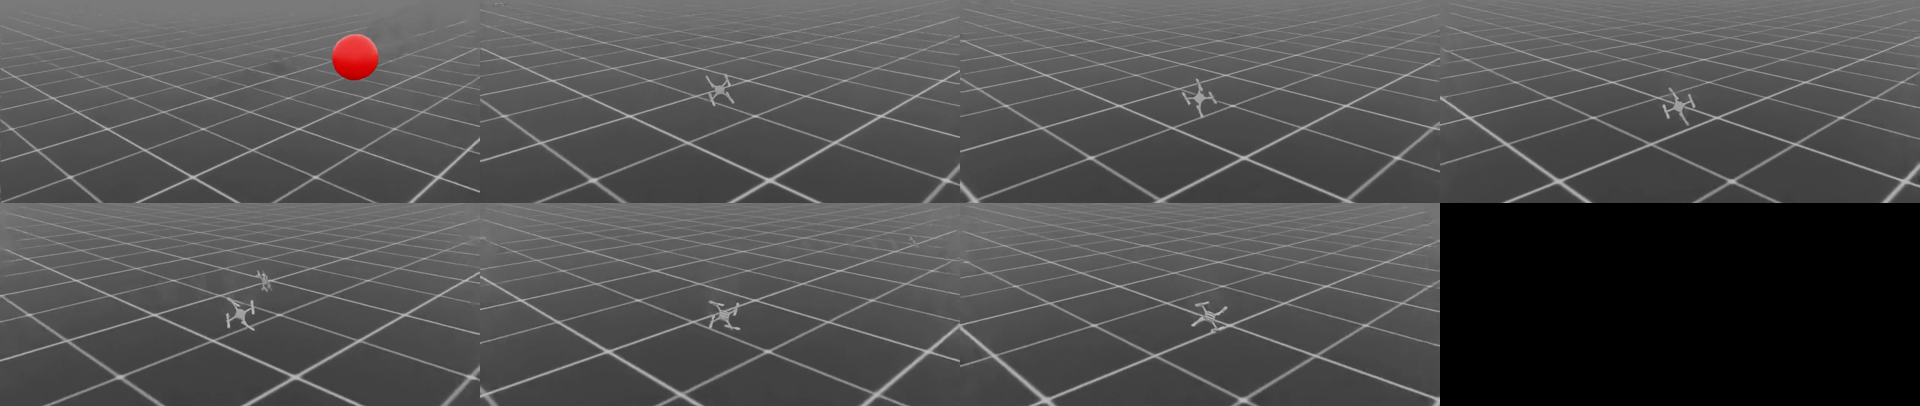
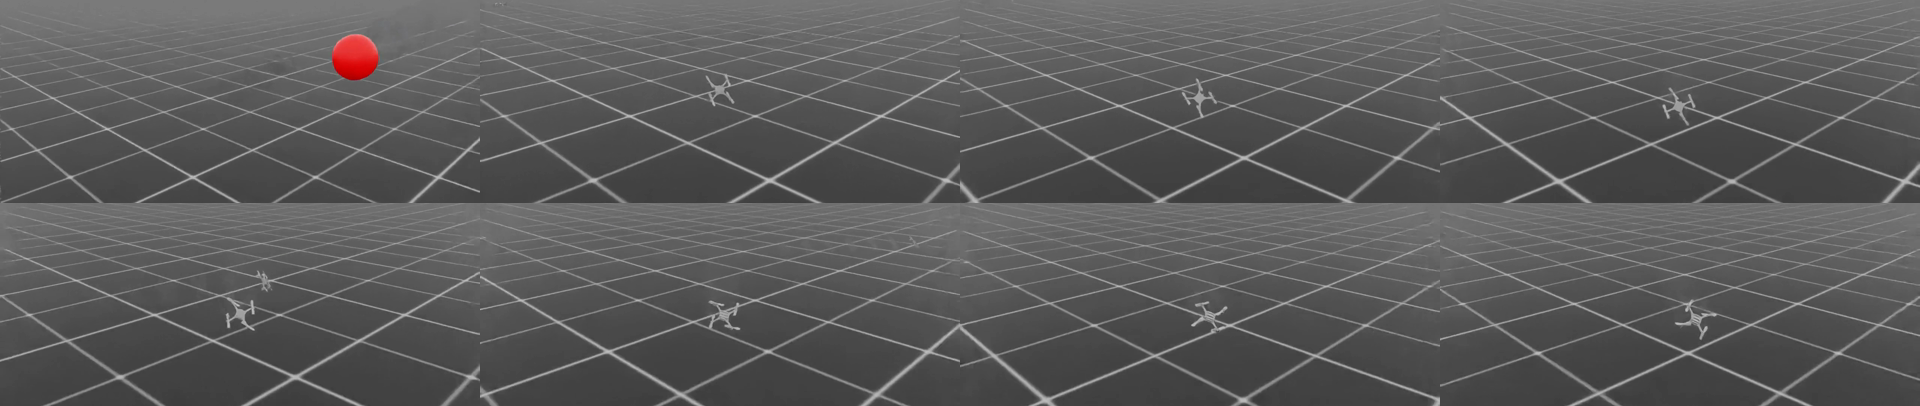
Phase 1 doc: complete 8-frame chase-cam strip

Changed region(s): [[0.75, 0.5025, 1.0, 1.0]]

diff --git a/docs/phase1-goal-env.md b/docs/phase1-goal-env.md
@@ -100,8 +100,8 @@ follows env 0's drone from about 1.5 m. It flies straight and level to each goal
 
 ![Chase camera, final policy](images/p1-goal-chase-frames.png)
 
-*Eight frames, 0.16 s apart, as env 0's drone reaches a goal (the red marker, top left) and starts the next
-episode. The attitude stays level throughout.*
+*Eight frames, 0.16 s apart: env 0's drone reaches a goal (the red marker, first frame), and the next
+episode starts. The attitude stays level throughout.*
 
 ## 4. What went wrong along the way
 
